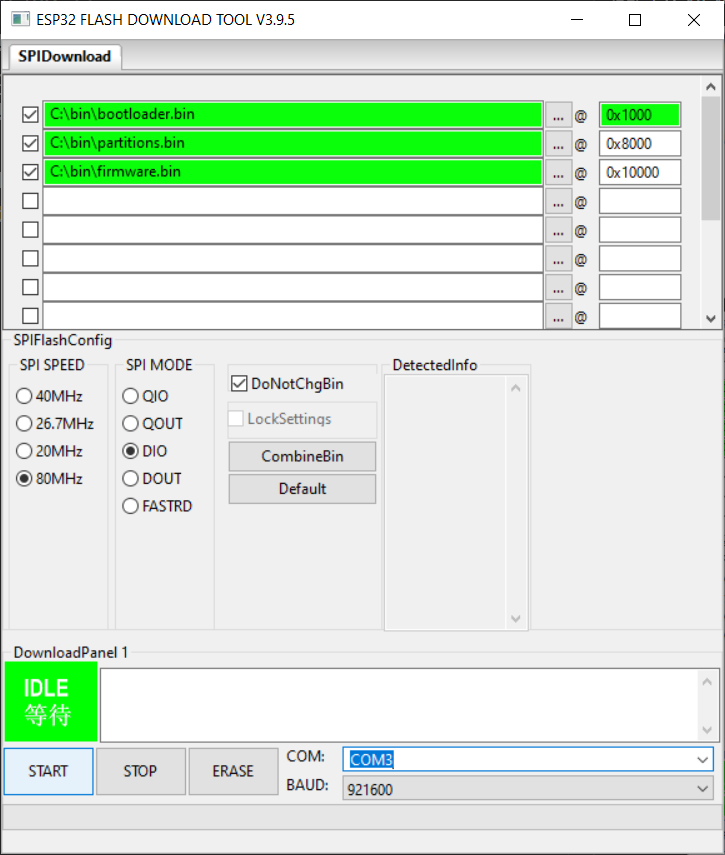
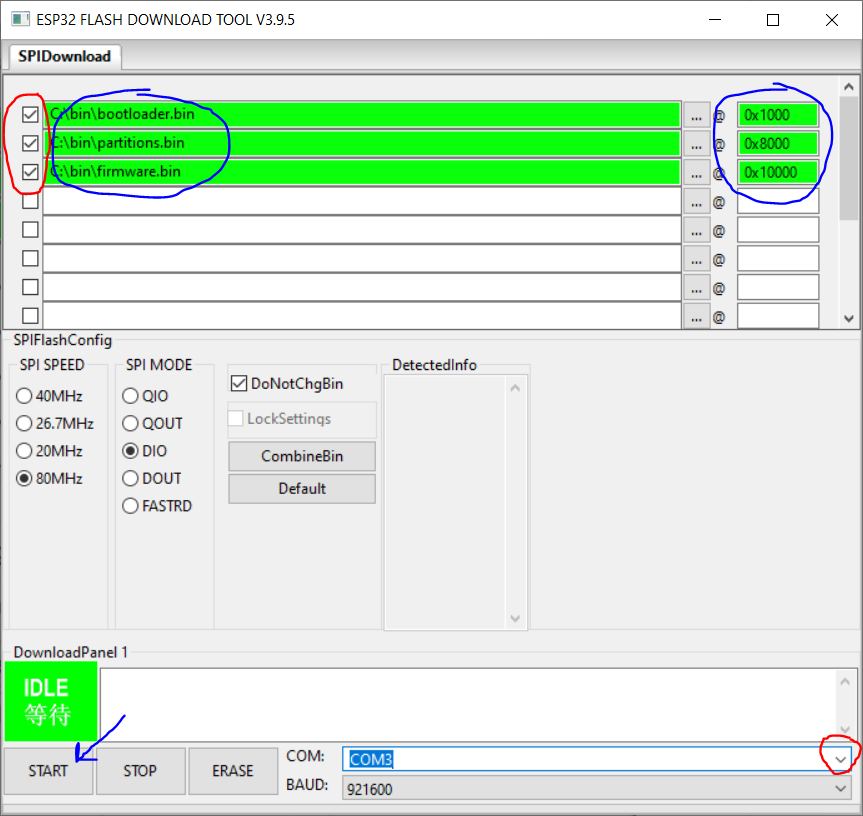
Modified flash tool usage description

diff --git a/README.md b/README.md
@@ -25,9 +25,29 @@ The latest version of this tool can be downloaded [from the Espressif support we
 
 Connect your AgonLight board to your PC, using an appropriate USB interface cable. This will provide serial connectivity between the ESP32 on your AgonLight and the PC.
 
-After installation of the Espressif ESP Flash download tool, run it and fill in the fields as follows (provide your own serial port details from the DROPDOWN), pointing the binaries to where you downloaded this git to on disk.
+After installation of the Espressif ESP Flash download tool, run it and fill in the fields as follows:
 
-![espressif settings1](/flash-settings.png)
+Select the **ESP32** platform for *Chiptype*:
+![espressif settings1](/flash-settings1.png)
+
+Leave **WorkMode** at *Develop*:
+![espressif settings2](/flash-settings2.png)
+
+Next, on the main screen, take care to specify these exact addresses for:
+
+|    Filename    | Address |
+|:--------------:|--------:|
+| bootloader.bin |  0x1000 |
+| partitions.bin |  0x8000 |
+|  firmware.bin  | 0x10000 |
+
+And **make sure** to **SELECT** the checkboxes on the left, to select all files to flash.
 ![espressif settings2](/flash-tool.png)
 
+- SPI speed is 80Mhz
+- SPI mode can be DIO, or QIO
+- Please don't use the CombineBin/Default buttons
+- Leave the *DoNotChgBin* option selected
+- provide your own serial port details from the **DROPDOWN** and don't type it in.
+ 
 Then press 'Start' and wait for the tool to finish. It might be necessary to press the 'reset' button after the tool is done.
